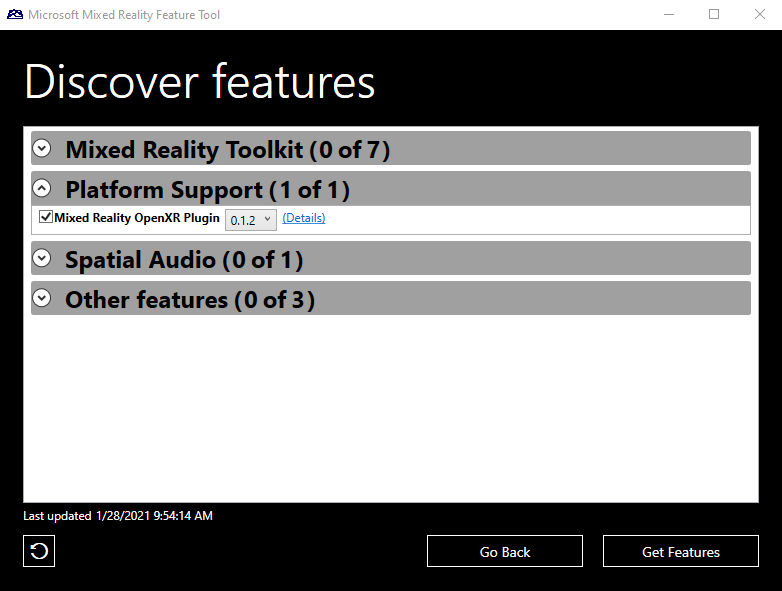
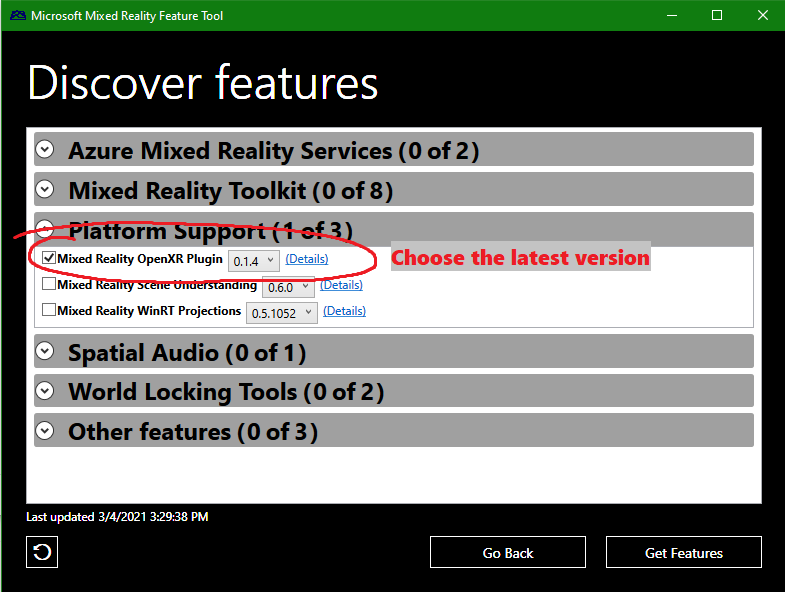
Update for Unity OpenXR 1.0.4

diff --git a/mixed-reality-docs/mr-dev-docs/develop/unity/openxr-supported-features.md b/mixed-reality-docs/mr-dev-docs/develop/unity/openxr-supported-features.md
@@ -19,7 +19,7 @@ The following features are currently supported:
 * Supports UWP applications for HoloLens 2, and optimize for HoloLens 2 application model.
 * Supports Win32 VR applications for Windows Mixed Reality headset with latest controller profiles and holographic app remoting.
 * World scale tracking using Anchors and Unbounded space.
-* [Anchor storage API to persist anchors](#anchors-and-anchor-persistence) to HoloLens 2 local storage.
+* [Anchor storage API to persist anchors](spatial-anchors-in-unity.md) to HoloLens 2 local storage.
 * [Motion controller and hand interactions](#motion-controller-and-hand-interactions), including the new HP Reverb G2 controller.
 * Articulated hand tracking using 26 joints and joint radius inputs.
 * Eye gaze interaction on HoloLens 2.
@@ -29,6 +29,7 @@ The following features are currently supported:
 * Compatible with MRTK Unity 2.5.3 and newer through [MRTK OpenXR provider support](openxr-getting-started.md#using-mrtk-with-openxr-support).
 * Compatible with Unity [ARFoundation 4.0](https://docs.unity3d.com/Packages/com.unity.xr.arfoundation@4.1/manual/index.html) or later.
 * (Added in 0.1.3) Supports [desktop app Holographic Remoting](#holographic-remoting-in-desktop-app) from a built and deployed Windows Standalone app.
+* (Added in 0.1.4) Supports [QR code tracking](#qr-codes) on HoloLens2 through SpatialGraphNode
 
 ## Holographic Remoting setup
 
@@ -200,13 +201,19 @@ public static readonly InputFeatureUsage<Vector3> PointerPosition = new InputFea
 
 For information on using haptics in Unity’s XR Input system, documentation can be found at the [Unity Manual for Unity XR Input - Haptics](https://docs.unity3d.com/2020.2/Documentation/Manual/xr_input.html#Haptics).
 
+## QR codes
+
+HoloLens 2 can detect QR codes in the environment around the headset, establishing a coordinate system at each code's real-world location. You can find more details in our [QR code tracking](../platform-capabilities-and-apis/qr-code-tracking.md) documentation.  When using the OpenXR plugin, grab the [`SpatialGraphNodeId` from the QR API](../platform-capabilities-and-apis/qr-code-tracking.md#qr-api-reference) and use the `Microsoft.MixedReality.OpenXR.SpatialGraphNode` API to locate the QR code.
+
+For reference, we have a [QR tracking sample project on GitHub](https://github.com/yl-msft/QRTracking) with more a detailed usage explanation for the [`SpatialGraphNode` API](https://github.com/yl-msft/QRTracking/blob/main/SampleQRCodes/Assets/Scripts/SpatialGraphNodeTracker.cs).
+
 ## What's coming soon
 
 The following issues and missing features are known with Mixed Reality OpenXR plugin **version 0.1.0**. We're working on these and will release fixes and new features in upcoming releases.
 
 * **ARPlaneSubsystem** is not supported yet. **ARPlaneManager**, **ARRaycastManager**, and related API like **ARAnchorManager.AttachAnchor** are also not supported on HoloLens 2.
-* **Anchor** isn't supported by Holographic Remoting yet, but it's coming in the near future.
-* **Hand Mesh** tracking, **QR Codes**, and **XRMeshSubsystem** aren't supported yet.
+* **Anchor persistence** isn't supported by Holographic Remoting yet, but it's coming in the near future.
+* **Hand Mesh** tracking and **XRMeshSubsystem** aren't supported yet.
 * **Azure Spatial Anchors** support is coming in a future release.
 * **ARM64** is the only supported platform for HoloLens 2 apps. The **ARM** platform is coming in a future release.
 

diff --git a/mixed-reality-docs/mr-dev-docs/develop/unity/openxr-getting-started.md b/mixed-reality-docs/mr-dev-docs/develop/unity/openxr-getting-started.md
@@ -15,7 +15,7 @@ Starting with Unity version 2020.2, Microsoft’s Mixed Reality OpenXR Plugin pa
 ## Prerequisites
 
 * Unity 2020.2 or later
-* Unity OpenXR plugin 0.1.3 or later
+* Unity OpenXR plugin 0.1.4 or later
 * Visual Studio 2019 or later
 * Install **UWP** platform support in Unity for HoloLens 2 apps
 
